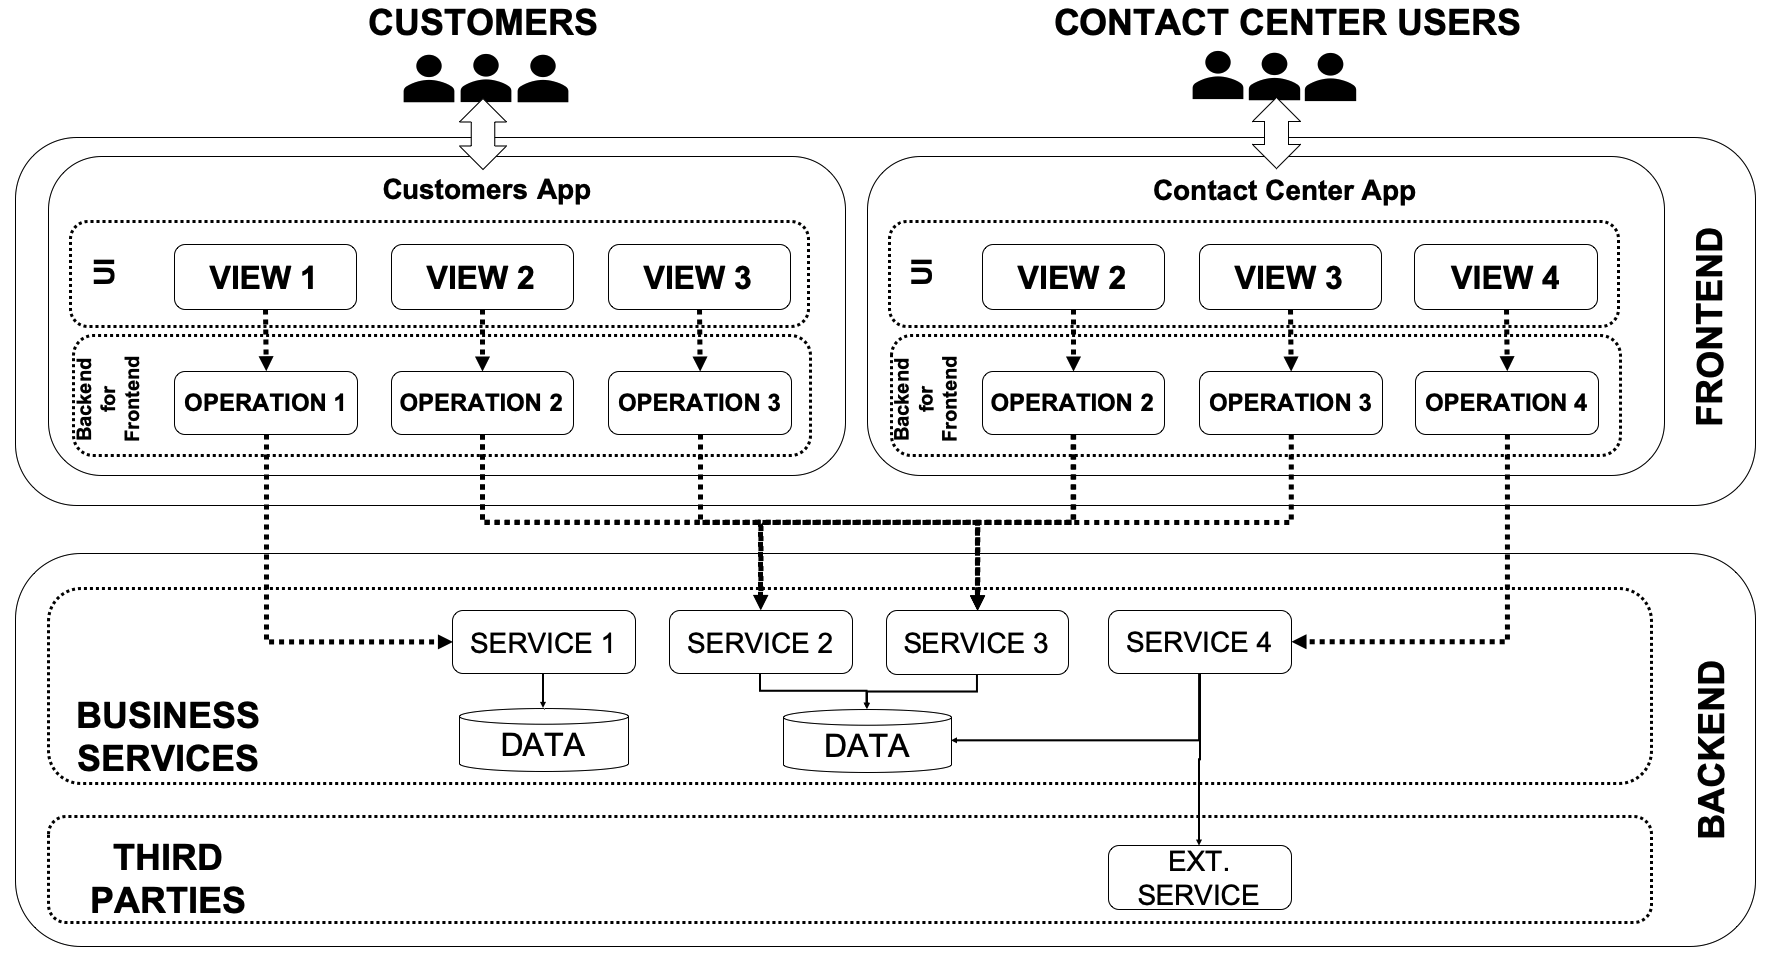
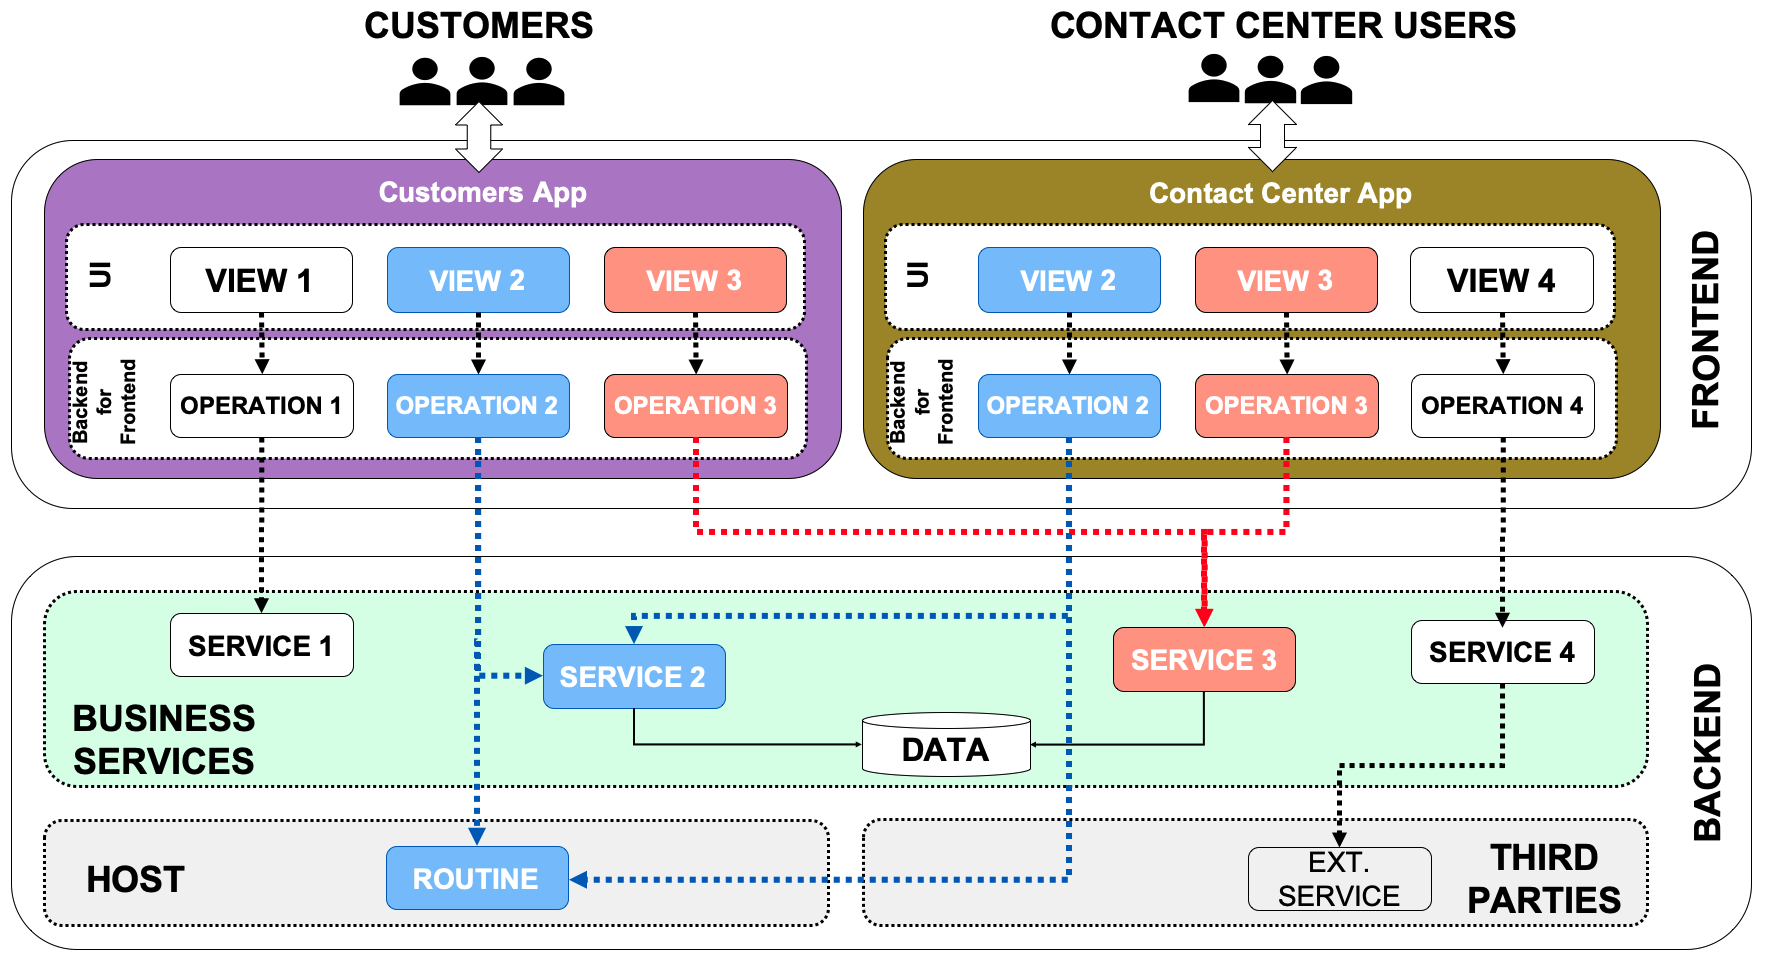
Microfrontends - update

diff --git a/_posts/2019-08-15-microfrontends.md b/_posts/2019-08-15-microfrontends.md
@@ -82,13 +82,23 @@ If one team is able to develop all the necessary elements for deliver a feature,
 
 ## Keep the business features inmutables to the user and reuse them
 
-Imagine this situation (could be your company):
+Imagine this scenario. It's not the best approach to organize a company architecture but it could be something real in many companies:
 
 ![example](/images/microfrontends/situation-example.png)
 
-In that picture, we can see two applications: Customers and Customer Care. In the Customer Care applications, there are some functionalities similar to the Customer application in order to give a good service to the end customer. In some companys, a different frontend developments are built in each application but consuming the same backend services. In others, the decission is to build a frontend module containing the functionality and this module is integrated in both applications. 
+We can see two applications: 
 
-Business backend services are usually consumed by different applications composing different business features depending of how they are orchestrated or the user interface managing operations of the user. 
+- Customers: application in which customers perform business actions. 
+
+- Customer Care: application used by company employees to help to their customers. This application try to be similar to the Customers application in order to give a good service to the customer.
+
+Both applications have their own backend for frontend in order to orchestrate calls to different services and manage details regarding to different channels. In some companys, a different frontend developments are built in each application. In others, the decission is to build a frontend module containing the functionality and this module is integrated in both applications. The backend for frontend usually depends on the application and it isn't reused and backend services are the same in both applications. 
+
+If the implementations of similar business features between applications is not considered as a whole, they are **mutable**. That means they are differents implementations of the same business capability:
+
+![example](/images/microfrontends/mutable-fetatures.png)
+
+
 
 
 
